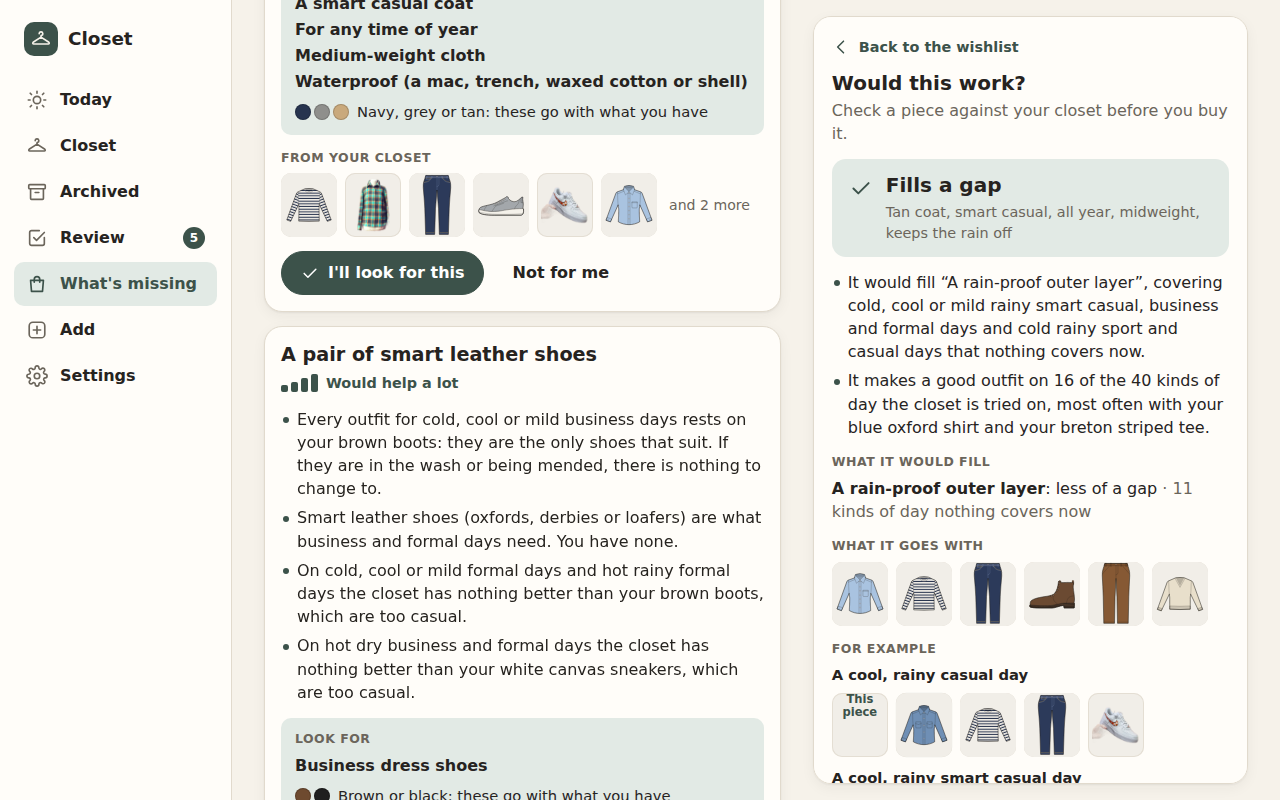
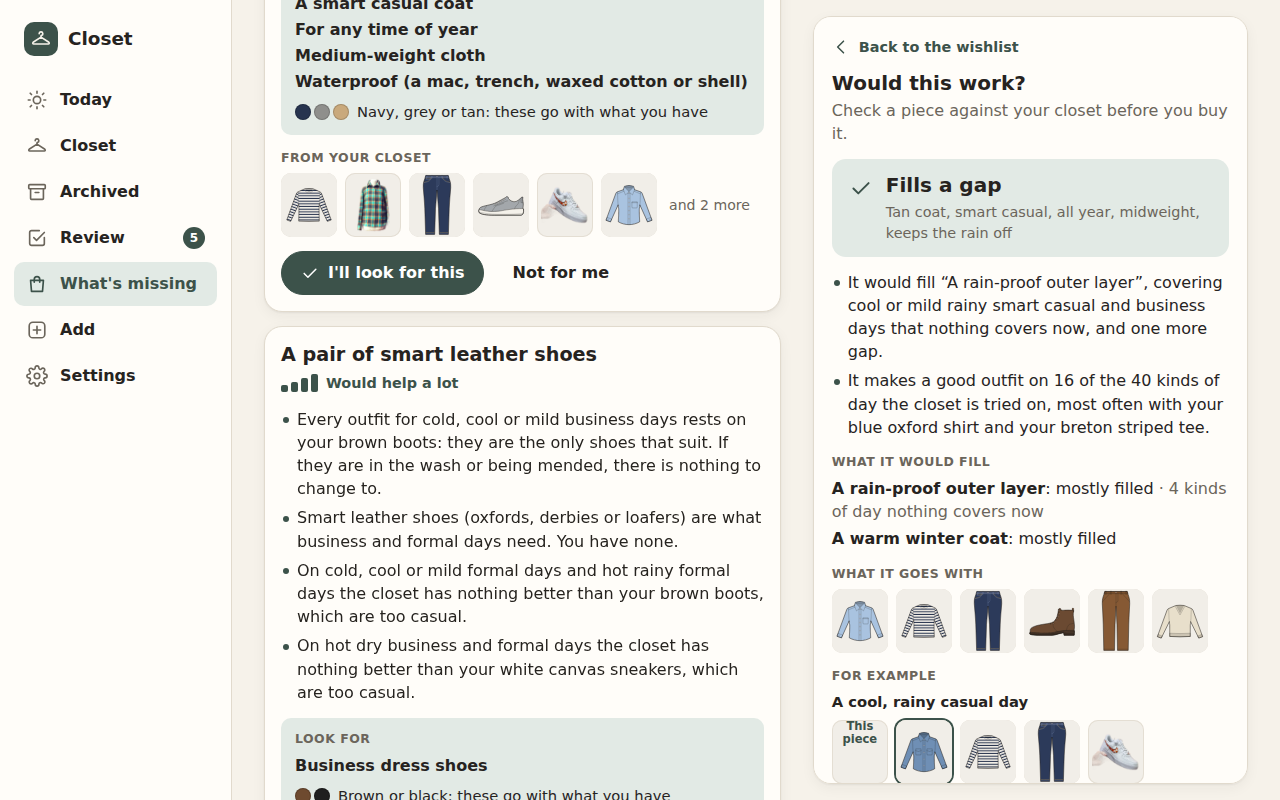
Would this work?: honest fill words, screenshots retaken, docs for the review fixes

Changed region(s): [[0.625, 0.5938, 0.9688, 1.0], [0.6562, 0.375, 0.9688, 0.4688]]

diff --git a/frontend/src/screens/WouldWork.tsx b/frontend/src/screens/WouldWork.tsx
@@ -9,7 +9,7 @@ import { useCloset } from '../store';
 import { placeLabel, wornOrder } from '../today';
 import type { ItemSummary } from '../types';
 import {
-  CANDIDATE_ID, type Check, checkKinds, isDone, noteFor, pieceFromLook, pieceToSend, POLL_MS, stillToChoose, verdictTone, waitingWords,
+  CANDIDATE_ID, type Check, checkKinds, fillWords, isDone, noteFor, pieceFromLook, pieceToSend, POLL_MS, stillToChoose, verdictTone, waitingWords,
   WEIGHTS, weightLabel, wishFrom, type WouldAnswer, type WouldPiece, wornWords,
 } from '../wouldwork';
 import './WouldWork.css';
@@ -323,7 +323,7 @@ function Answer({ check, answer, byId }: { check: Check; answer: WouldAnswer; by
               <h4 className="gap-label">What it would fill</h4>
               <ul className="wouldwork-list">
                 {counted.map((f) => (
-                  <li key={f.gap_id}><strong>{f.name}</strong>: {f.gone ? 'no longer missing' : 'less of a gap'}
+                  <li key={f.gap_id}><strong>{f.name}</strong>: {fillWords(f)}
                     {f.days.length > 0 && <span className="muted"> · {f.days.length} kind{f.days.length === 1 ? '' : 's'} of day nothing covers now</span>}
                   </li>
                 ))}

diff --git a/frontend/src/wouldwork.test.ts b/frontend/src/wouldwork.test.ts
@@ -1,7 +1,7 @@
 import { describe, expect, it } from 'vitest';
 import type { LookFor, Wish } from './gaps';
 import {
-  type Check, checkKinds, isDone, noteFor, pieceFromLook, pieceToSend, stillToChoose, verdictTone, waitingWords, WEIGHTS, weightLabel, wishById,
+  type Check, checkKinds, fillWords, isDone, noteFor, pieceFromLook, pieceToSend, stillToChoose, verdictTone, waitingWords, WEIGHTS, weightLabel, wishById,
   wishFrom, wornWords,
 } from './wouldwork';
 
@@ -85,5 +85,13 @@ describe("the answer in a wish's note", () => {
     expect(once).toBe('Size 40\n\nTan coat.');
     expect(noteFor({ note: once }, 'Tan coat.')).toBe(once);
     expect(noteFor({ note: 'x'.repeat(990) }, 'Tan coat, smart casual.').length).toBe(1000);
+  });
+});
+
+describe('how much of a gap it fills', () => {
+  it('only says "no longer missing" when the gap goes', () => {
+    expect(fillWords({ gone: true, filled: true })).toBe('no longer missing');
+    expect(fillWords({ gone: false, filled: true })).toBe('mostly filled');
+    expect(fillWords({ gone: false, filled: false })).toBe('a little less of a gap');
   });
 });

diff --git a/frontend/e2e/12-would-work.spec.ts b/frontend/e2e/12-would-work.spec.ts
@@ -180,7 +180,10 @@ for (const [label, viewport] of [['computer', { width: 1280, height: 800 }], ['p
     await checkCoat(page);
     await expect.poll(() => page.locator('main img').evaluateAll((imgs) => imgs.every((i) => (i as HTMLImageElement).complete))).toBe(true);
     if (label === 'computer') await page.getByTestId('would-work').evaluate((el) => el.closest('aside')?.scrollTo(0, 0));
-    else await page.getByTestId('would-work-answer').scrollIntoViewIfNeeded();
+    else await page.evaluate(() => window.scrollTo(0, 0));
+    expect(await page.evaluate(() => document.documentElement.scrollWidth)).toBeLessThanOrEqual(viewport.width);
+    const answer = page.getByTestId('would-work-answer');
+    expect(await answer.evaluate((el) => el.scrollWidth - el.clientWidth)).toBeLessThanOrEqual(0);
     const path = testInfo.outputPath(`would-this-work-${label}.png`);
     await page.screenshot({ path });
     await testInfo.attach(`Would this work? on a ${label}`, { path, contentType: 'image/png' });

diff --git a/frontend/src/wouldwork.ts b/frontend/src/wouldwork.ts
@@ -168,3 +168,9 @@ export function wishById(wishes: Wish[] | null, id: string | null): Wish | null 
   if (!id || !wishes) return null;
   return wishes.find((w) => w.id === id) ?? null;
 }
+
+/** How much of a gap the piece would fill, in the answer's list. */
+export function fillWords(fill: { gone: boolean; filled: boolean }): string {
+  if (fill.gone) return 'no longer missing';
+  return fill.filled ? 'mostly filled' : 'a little less of a gap';
+}

diff --git a/docs/DECISIONS.md b/docs/DECISIONS.md
@@ -251,15 +251,20 @@ The check is `backend/closet/wouldwork.py`, pure and deterministic like `gaps.py
 | Decision | Why |
 |---|---|
 | The piece is tried as if it were in the closet: `gaps.find_gaps` is run with it and without it, and `outfits.suggest` is asked, built around it, for each of the gap analysis's 40 kinds of day | The same engine and analysis as Today and What's missing, so the answer agrees with them and can be explained. Neither is changed; the check reads their own pieces and rules as `gaps.py` reads the engine's. The only change around them is that the app's `gap_analysis` takes the rows it has already read (`gap_inputs`), which gives the same answer as before. |
-| Five verdicts, picked in this order: **Not enough in the closet to say** (fewer than 8 pieces of clothing, as the gap analysis); **Hard to wear with what you have** (a good outfit on fewer than 2 kinds of day, or on fewer than a quarter of the kinds of day that suit the piece itself); **Fills a gap** (a gap goes, or its score falls by at least 10 of 100); **Works, but you have it already** (at least one piece owned does the same job); otherwise **Works, and adds something** | Hard to wear comes before filling a gap: a piece that fills a gap on paper but goes with nothing does not fill it in practice. The thresholds are named constants at the top of `wouldwork.py` and were set by trying pieces on the demo closet (a rain-proof coat, a fourth pair of jeans, plaid formal trousers, a floral shirt, brown dress shoes); they may want moving once the real closet is in. |
+| Five verdicts, picked in this order: **Not enough in the closet to say** (fewer than 8 pieces of clothing, as the gap analysis); **Hard to wear with what you have** (below); **Fills a gap** (below); **Works, but you have it already** (at least one piece owned does the same job); otherwise **Works, and adds something** | Hard to wear comes before filling a gap: a piece that fills a gap on paper but goes with nothing does not fill it in practice. The thresholds are named constants at the top of `wouldwork.py` and were set by trying pieces on the demo closet (a rain-proof coat, a fourth pair of jeans, plaid formal trousers, a floral shirt, brown dress shoes, and the demo closet without its trousers or its coats); they may want moving once the real closet is in. |
+| **Fills a gap** is judged by days, not by the gap's score: the kinds of day a gap fails on without the piece are compared with those it fails on with it. A gap is filled when it goes, or when at least half of its failing days (`FILL_MIN_SHARE`) are freed and on each of those the piece makes a good outfit or no piece of its kind does better (below). A gap that rests on no days (a kind of piece missing, pieces nothing goes with) is filled when it goes. When the analysis is run with the piece, a "thin place" that rests only on the piece itself is dropped | With the piece added, the gap analysis says that very piece is now a thin place ("only one pair of smart trousers"), so the score of "Smart trousers" barely fell even when grey business trousers were exactly what it asked for. A gap whose only remaining finding is the candidate is filled; the score would have needed a threshold that rewards no piece in particular. The same rule stops a piece from being said to fill a gap whose days it does not change (light trousers for hot days are not filled by navy business trousers, and do not rise because of them). |
+| **Hard to wear** is judged only on the kinds of day that suit the piece, and only on those where an owned piece of the same kind (up to 6, `COMPARE_MAX`, most worn first) makes a good outfit and the candidate does not. It is hard to wear when it makes a good outfit on fewer than 2 of those days, or on less than a quarter of them. Days where no piece of its kind does better are the closet's shortfall: the answer says so ("…that is what the closet lacks, not this piece") and does not count them against the piece | A white polo in a closet with no sweater or jacket is short of warm on every cool day, but so is every top the owner has; blaming the polo, with a reason that was not the one found, was wrong. The sentence under the verdict is always the reason that was found. |
+| Every sentence must be true of every piece or day it speaks for: "all of them" only when every one fails for that reason (otherwise "three of them…, two…"); "covering days nothing covers now" only for days on which the piece makes a good outfit; "breaks a rule" only for the piece's own failing days; when the only piece doing the same job is one rated dislike, the answer says so ("…and you rated it dislike") instead of "nothing you own does the same job" | The answer is meant to be explained and trusted; one false "all" or "nothing" undoes that. |
 | "A good outfit" is one the engine makes around the piece with none of its own warnings (a clash, the wrong warmth for the day) on a day the piece itself suits (its season, and an outer or middle layer not on a hot day) | The engine can be made to put any piece in an outfit; this keeps "it works on 16 kinds of day" honest. |
 | "Does the same job" is the same kind, the same formality and the same colour group: dark neutrals (black, navy) together, light ones (white, cream), earth tones (tan, brown), and otherwise the engine's colour families; jeans in any blue, navy, black or grey wash are one group | "You have three like it, and two of them are hardly worn" is the most useful sentence the check can say, so it should catch the pieces the owner would call the same; jeans are worn with the same things whatever the wash, as the engine counts blue jeans as neutral. "Hardly worn" is at most once in the log, said only when the log has at least 10 wears (as the gap analysis). |
 | A gap found only from the wear log ("another one like the piece you wear most") is listed but does not make the verdict "Fills a gap" | The same piece again is always the answer to that gap, so it would call every repeat a gap filled; the pieces like it that are hardly worn are often the better answer, and the verdict says "you have it already" with them named. |
 | The photo is described by the tagger through the same routes as an item (plan first, the API key only when switched on and under its monthly limit), recorded in the spending record with its own purpose `would_this_work` | One way of reaching Claude, one limit; the purpose lets the owner see what the checks cost. The demo closet sends nothing (the photo way is off there and says why), and with no route the photo way says so at once and offers "describe it by hand", which needs no Claude. |
-| The photo is not kept: it waits in a folder of its own (`checking` in the data folder, not part of any backup) only until its check is answered or fails, is then deleted, and the folder is emptied when Closet starts; nothing about it is logged | It is a photo of something in a shop, not of the owner's clothes. Writing it to disk keeps a minute-long wait from holding a large upload in memory, and emptying the folder at start covers a crash. |
-| A check starts with `POST` and is asked for with `GET`, and checks are kept in memory only (at most 5, the oldest dropped), gone when Closet stops | Describing a photo takes up to a minute through the plan, too long to hold a request open from a phone. Nothing about a check needs keeping: the answer is worked out again in seconds, and **Put it on my wishlist** keeps what matters. So there is no migration. |
-| "Put it on my wishlist" adds a wish by hand with the piece's name and, in the note, its description and the verdict; "I bought it" marks the wish bought when the check was started from one, then opens Add | The wishlist already holds what the owner is looking for; a note is where a found piece's details belong. |
-| On a computer the check is a panel beside the suggestions, in place of the wishlist; on a phone it is a page of its own. The answer is kept while the app is open, so opening one of the owner's pieces from it and coming back shows it again | As the rest of the screen: deciding while seeing the list on a computer, one thing at a time on a phone. |
+| The photo is never written to disk: it is read, shrunk to the size the tagger sends (`images.MAX_EDGE`) and held in memory by its check alone, then let go when the check is answered or fails, whatever the failure; nothing about it is logged (an unexpected fault is logged as text, without the photo) | It is a photo of something in a shop, not of the owner's clothes, and `images.py` says an upload is never written as it arrived. Shrunk, it is a few hundred kilobytes for at most a minute, and with nothing on disk there is nothing to clean up after a crash. |
+| At most 5 checks are kept: a new one drops the oldest finished one, never one still running; while 5 are running a new one is refused (409, "Wait for one of them to finish") | Dropping a running check would leave its thread, a call to Claude included, finishing for nobody while the screen got "not known". Refusing caps the threads at 5 too. |
+| Removing the background is run by the cutout worker and, for a photo being checked, by the check's thread; the one model session is made under a lock (`cutout._sessions_lock`) | Two threads making it at once would load the model twice. |
+| A check starts with `POST` and is asked for with `GET`, and checks are kept in memory only, gone when Closet stops | Describing a photo takes up to a minute through the plan, too long to hold a request open from a phone. Nothing about a check needs keeping: the answer is worked out again in seconds, and **Put it on my wishlist** keeps what matters. So there is no migration. |
+| "Put it on my wishlist" adds a wish by hand with the piece's name and, in the note, its description and the verdict, once per check (the button then reads "On your wishlist", also after opening a piece and coming back). Started from a wish, the button is "Add it to the wish's note" and adds the answer to that wish's note (after what is there, once, within the note's 1000 characters) instead of adding a second wish. "I bought it" marks the wish bought when the check was started from one, then opens Add. The lists of What's missing are read again when the check is closed | The wishlist already holds what the owner is looking for; a note is where a found piece's details belong. |
+| On a computer the check is a panel beside the suggestions, in place of the wishlist; on a phone it is a page of its own. The check is remembered while the app is open, from the moment it is sent: leaving while it is on its way and coming back picks it up again once the server gives its id, and a send that got no id goes back to the form. Opening one of the owner's pieces from the answer and coming back shows it again | As the rest of the screen: deciding while seeing the list on a computer, one thing at a time on a phone. |
 
 ### Insights
 

diff --git a/docs/API.md b/docs/API.md
@@ -81,10 +81,10 @@ Hidden gaps and the wishlist are kept in the open closet's database, so the demo
 
 | Route | What it does |
 |---|---|
-| `POST /api/would-this-work` | Starts a check of a piece the owner might buy against the open closet (`backend/closet/wouldjobs.py`, the check itself is `wouldwork.py`). By hand: JSON `{piece: {category, color, formality?, season?, pattern?, weight_class?, rain_proof?, name?, material?, silhouette?}}` (the item vocabulary; `category` and `color` are needed, `category` cannot be `other`; `weight_class` is `lightweight`, `midweight`, `heavyweight` or `super_heavy`). From a photo: multipart with `photo` (as for `POST /api/items`). 202 with the check (below), usually still `checking` or `describing`. 422 with a sentence for a wrong description; 400 for a file that is not a photo; 409 at once, with a sentence ending "Describe it by hand instead.", for a photo in the demo closet (never sent to Claude) or when no route to Claude can be used. |
+| `POST /api/would-this-work` | Starts a check of a piece the owner might buy against the open closet (`backend/closet/wouldjobs.py`, the check itself is `wouldwork.py`). By hand: JSON `{piece: {category, color, formality?, season?, pattern?, weight_class?, rain_proof?, name?, material?, silhouette?}}` (the item vocabulary; `category` and `color` are needed, `category` cannot be `other`; `weight_class` is `lightweight`, `midweight`, `heavyweight` or `super_heavy`). From a photo: multipart with `photo` (as for `POST /api/items`). 202 with the check (below), usually still `checking` or `describing`. 422 with a sentence for a wrong description; 400 for a file that is not a photo; 409 at once, with a sentence ending "Describe it by hand instead.", for a photo in the demo closet (never sent to Claude) or when no route to Claude can be used; 409 "Closet is already checking 5 pieces…" while 5 checks are still running. 400 for a photo over the upload limit. |
 | `GET /api/would-this-work/{id}` | The check: `{id, state, way, piece, piece_words, answer, message, by_hand, started_at, finished_at}`. `state` is `describing` (Claude is looking at the photo, up to a minute), `checking`, `ready` or `failed`; `way` is `by_hand` or `photo`; `piece` is the description as checked (filled in: formality, season, pattern) and `piece_words` the same in one line ("Tan coat, smart casual, all year, midweight, keeps the rain off"). When `failed`, `message` says why and `by_hand` is true when describing it by hand gets round it (no route to Claude, the monthly limit reached, Claude could not tell what the piece is). 404 "This check is not known…" for an unknown id. |
 
-The answer (`answer`, when `ready`): `{enough, message, verdict, verdict_words, reasons[], piece, fills: [{gap_id, name, score_before, score_after, gone, days: [day], found_by[]}], goes_with: {days, suits, of, items[], examples: [{day, pieces, score, reasons[]}], text}, repeats: {items: [{id, worn, hardly_worn}], text}, holds_back[], checked: {items, wears, days}}`. `verdict` is `fills_gap`, `adds`, `have_it`, `hard_to_wear`, or `too_small` (fewer than 8 pieces of clothing: `enough` is false and `message` says so); `verdict_words` is the same in plain words and `reasons` one or two sentences. `fills` are the gaps of `GET /api/gaps` that go away (`gone`) or get smaller with the piece, `days` the kinds of day (as in a gap's evidence) it covers that nothing covers now. `goes_with.days` is how many of the `of` (40) kinds of day it makes a good outfit on, of the `suits` that suit the piece itself; `items` are item ids it pairs with most; `examples` are up to three outfits as `POST /api/outfits/today` gives them, the piece itself having the id `~candidate`. `repeats.items` are the owner's pieces that do the same job, most worn first, with their wears in the log. `holds_back` are sentences. Nothing is stored: checks are kept in memory, at most 5 (the oldest is dropped), and are gone when Closet stops. A photo is kept on disk only until its check is answered or fails, is never added to the closet, logged or backed up, and a description from a photo is recorded in the spending record with the purpose `would_this_work`.
+The answer (`answer`, when `ready`): `{enough, message, verdict, verdict_words, reasons[], piece, fills: [{gap_id, name, score_before, score_after, gone, filled, days: [day], of_days, found_by[]}], goes_with: {days, suits, of, items[], examples: [{day, pieces, score, reasons[]}], text}, repeats: {items: [{id, worn, hardly_worn}], text, disliked[], disliked_text}, holds_back[], checked: {items, wears, days}}`. `verdict` is `fills_gap`, `adds`, `have_it`, `hard_to_wear`, or `too_small` (fewer than 8 pieces of clothing: `enough` is false and `message` says so); `verdict_words` is the same in plain words and `reasons` one or two sentences. `fills` are the gaps of `GET /api/gaps` that go away (`gone`) or get smaller with the piece, judged by the kinds of day they fail on with and without it, not by the score; `filled` is true when the gap counts as filled (it goes, or the piece frees at least half of its `of_days` failing kinds of day; see DECISIONS), `days` the kinds of day (as in a gap's evidence) it makes a good outfit on that nothing covers now. `goes_with.days` is how many of the `of` (40) kinds of day it makes a good outfit on, of the `suits` that suit the piece itself; `items` are item ids it pairs with most; `examples` are up to three outfits as `POST /api/outfits/today` gives them, the piece itself having the id `~candidate`. `repeats.items` are the owner's pieces that do the same job, most worn first, with their wears in the log, not counting pieces rated dislike; `disliked` are the ids of those, and `disliked_text` a sentence about them (or null). `holds_back` are sentences. Nothing is stored: checks are kept in memory, at most 5 (a new one drops the oldest finished one; one still running is never dropped), and are gone when Closet stops. A photo is never written to disk: it is held in memory only until its check is answered or fails, is never added to the closet, logged or backed up, and a description from a photo is recorded in the spending record with the purpose `would_this_work`.
 
 ## Insights
 | Call | Result |

diff --git a/README.md b/README.md
@@ -99,8 +99,10 @@ have**, with the reasons: the gap it would fill, the pieces of yours it goes
 with (tap one to open it) and example outfits, the pieces you already have that
 do the same job and how often you wear them, and what would make it hard to
 wear. From the answer, **Put it on my wishlist** keeps it with its description
-in the note, and **I bought it** opens Add. The photo is not added to your
-closet: it is deleted as soon as the answer is ready, and a photo is described
+in the note (from a wish, **Add it to the wish's note** writes the answer into
+that wish instead), and **I bought it** opens Add. The photo is not added to
+your closet and is never saved on your computer: it is let go as soon as the
+answer is ready, and a photo is described
 the same way as a new item (your Claude plan first, the API key only when you
 have switched it on, within its monthly limit). In the demo closet only
 **describe it by hand** works, since the demo closet never sends anything to
